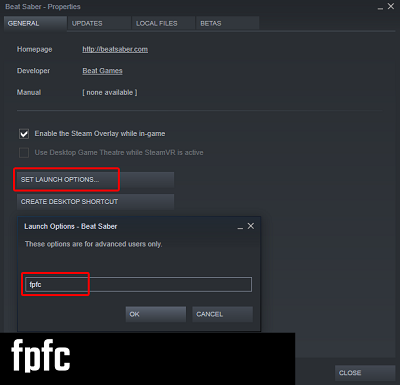
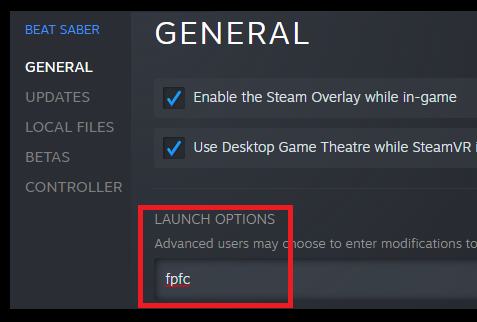
Misc Updates (#329)

Changed region(s): [[0.0, 0.0, 1.0, 1.0]]

diff --git a/wiki/support/README.md b/wiki/support/README.md
@@ -118,13 +118,13 @@ framerate, in no particular order:
   It may have set it to a higher number to 1.4 or 1.8 which significantly increases the GPU load.
 * Use a less complex custom avatar.
 * The custom saber **Plasma Katanas** have tons of custom events and are known to introduce lag if you miss.
-* Camera2 or CameraPlus can be very taxing, especially if you have multiple cameras and increase the FOV.
+* Camera2 and CameraPlus can be very taxing, especially if you have multiple cameras or increase the FOV.
 * Turn down Render Scale, Anti-Aliasing, mirror, fog, etc in the base game settings.
 * For Oculus Rift (CV1) players: consider using 2 sensors instead of 3+.
 * Reduce your total mod and song count.
 * Perform a [Clean Installation](#clean-installation) of the game files.
 * Low framerate can also be caused by something going wrong within your application data folder,
-  to fix this refer to [Deleting The Beatsaber Folder Within Your AppData](#deleting-your-save-in-appdata)
+  refer to [Deleting The Beatsaber Folder Within Your AppData](#deleting-your-save-in-appdata)
 * Disable Counters+ counters like score counter and swing speed as they can be expensive.
 * HTTPStatus or DataPuller can cause lag spikes. Test without this mod to see if the lag spikes go away.
 
@@ -137,7 +137,7 @@ upgrading your hardware. Note that Beat Saber doesn't utilize the GPU very much 
 
 #### 3.1 Blank Menu, No Buttons
 If your main window in game is blank, your save file likely got corrupted.
-To fix this refer to [Delete Beatsaber Folder Within Your AppData](#deleting-your-save-in-appdata)
+To fix this, refer to [Delete Beatsaber Folder Within Your AppData](#deleting-your-save-in-appdata)
 
 ::: warning
 This will delete your local scores and statistics.
@@ -218,7 +218,7 @@ If your Mods menu isn't there then make sure your mods and dependencies are work
 refer to the [No Mods?](#_1-no-mods) section.
 
 #### 3.12 Nothing Showing Up In The More Songs Menu
-The probable causes for beatsaver downloader not working are:
+The probable causes for BeatSaver Downloader not working are:
 
 1. Make sure all of your songs have loaded in before, or else the More Songs button will be greyed out.
 2. Your anti-virus or firewall blocking access to BeatSaver.
@@ -236,7 +236,7 @@ Here is a list of known error codes, what they mean, and what you can do to fix 
 | CFR-3  | Server is not reachable. There may be an issue with your internet connection or with Beat Saber's relay servers. Double check you are not offline and your firewall allows Beat Saber to connect to the internet. <details><summary>**Background Information**</summary>Beat Saber Multiplayer is peer-to-peer where you connect directly with each player in the lobby. When this is not possible Beat Saber starts a "relay" server to send the data. This error means both of these methods failed.</details> &nbsp; This can also be caused by using emojis or special characters in your username. |
 | CFR-4  | The server already exists.                                                                     |
 | CFR-5  | Server does not exist. The lobby you were connecting to might have closed as you were joining. |
-| CFR-6  | The server is full. Chose a different lobby.                                                   |
+| CFR-6  | The server is full. Choose a different lobby.                                                   |
 | CFR-7  | You are on a version of the game that is not supported by the servers.                         |
 | CFR-8  | Lobby password is incorrect. Double check you are entering the right password.                 |
 | CFR-9  | The matchmaking servers Beat Games run, which keeps track of open public and private lobbies, is offline. Try again later. |
@@ -248,7 +248,7 @@ Here is a list of known error codes, what they mean, and what you can do to fix 
 
 ### Understanding Logs
 If you're on Steam you can go to
-> Beat Saber > Properties > Set Launch Options > Add `--verbose` to the text field that appears
+> Beat Saber > Properties > General > Add `--verbose` to the launch options field
 
 If you're on Oculus then you will have to Right click on Beat Saber.exe and create a shortcut.
 Edit the Target to add "--verbose" to the end of it.
@@ -266,7 +266,7 @@ A list of common exceptions can be found [here](./exceptions.md).
 ### Verify Game Files For Steam
 To verify integrity of game files follow these steps:
 
-1. Make sure steamvr is closed as it wont let you verify your games otherwise.
+1. Make sure SteamVR is closed as it wont let you verify your games otherwise.
 2. Go to your steam library and find Beat Saber
 3. Right click Beat Saber and click on Properties
 4. Go to the "Local Files" tab in properties
@@ -305,12 +305,12 @@ This will delete your scores and local data, but not your custom leaderboard/Sco
 Copy and paste everything from inside the bar above and paste it to your address bar in file explorer and delete it.
 
 You can also get to this folder by showing hidden items and navigating to your
-> Users > "USER" > AppData > LocalLow > Hyperbolic Magnetism
+> Users > "USER" > AppData > LocalLow > Hyperbolic Magnetism > beat saber
 
 <YouTube url='https://youtu.be/ONxJcD3Ir3Q' />
 
 ::: warning
-Deleting the Appdata folder will also delete your local scores and statistics.
+Deleting this folder in Appdata will also delete your local scores and statistics.
 :::
 
 #### Desperate Measures

diff --git a/wiki/pc-modding.md b/wiki/pc-modding.md
@@ -34,7 +34,7 @@ loading times and provide functionality for other mods like the in-game download
 ::: warning
 This guide is for PC-modding on Windows.  
 If you have a Quest, see the [Quest Modding page](/quest-modding.md).  
-If you're on Linux, check out the [Linux page](/modding/linux.md) or [QBeat](https://github.com/geefr/beatsaber-linux-goodies/blob/master/README.md)
+If you're on Linux, check out the [Linux page](/modding/linux.md) or [Beataroni](https://github.com/geefr/beatsaber-linux-goodies/#readme)
 :::
 
 If you run into problems at any point, please head to the [support page](./support) and see if you can identify what

diff --git a/wiki/about/README.md b/wiki/about/README.md
@@ -44,7 +44,7 @@ on [BeastSaber](https://bsaber.com), or tell them personally! They'll really app
 
 ### [Mapping Resources Contributors](/mapping/mapping-credits.md)
 A group of experienced mappers that took the time to write down and share their knowledge to help others get started or improve.
-Checkout their maps and consider supporting them!
+Check out their maps and consider supporting them!
 
 ### [Translators](./translators.md)
 The hardworking people who took the time to translate the wiki content into their own languages. A heartfelt thank you

diff --git a/wiki/mapping/basic-lighting.md b/wiki/mapping/basic-lighting.md
@@ -214,7 +214,8 @@ store platform specific steps below.
 ![SiraUtil JSON Setting](~@images/mapping/sirautil-FPFC.png)
 
 **For Steam Users:**
-Open the game properties and add `fpfc` to the Steam launch options.
+
+Open the game properties and add `fpfc` to the Steam launch options in the General tab.
 ![Fpfc launch options](~@images/mapping/fpfc.png)
 
 **For Oculus Users:**

diff --git a/wiki/models/notes-guide.md b/wiki/models/notes-guide.md
@@ -288,7 +288,8 @@ store platform specific steps below.
 ![SiraUtil JSON Setting](~@images/mapping/sirautil-FPFC.png)
 
 **For Steam Users:**
-Open the game properties and add `fpfc` to the Steam launch options.
+
+Open the game properties and add `fpfc` to the Steam launch options in the General tab.
 ![Fpfc launch options](~@images/mapping/fpfc.png)
 
 **For Oculus Users:**

diff --git a/wiki/about/supports.md b/wiki/about/supports.md
@@ -60,6 +60,11 @@ This guy came out of nowhere and started helping in support saying it was some k
 
 [Twitter](https://twitter.com/Radevirot) | [Donate](paypal.me/Radevirot)
 
+## Rex
+I really like to help people. Yeah that's all.
+
+**Roles:** Support
+
 ## rui2015
 Has no creativity and doesn't know what to put here. Is a cool person though.
 
